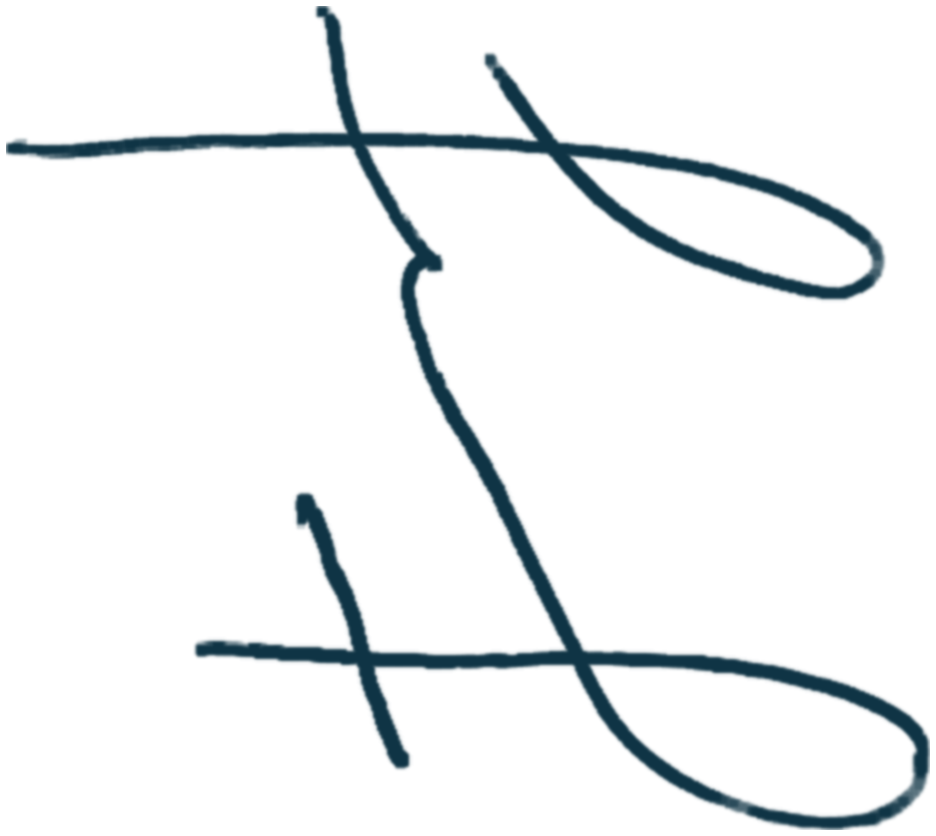
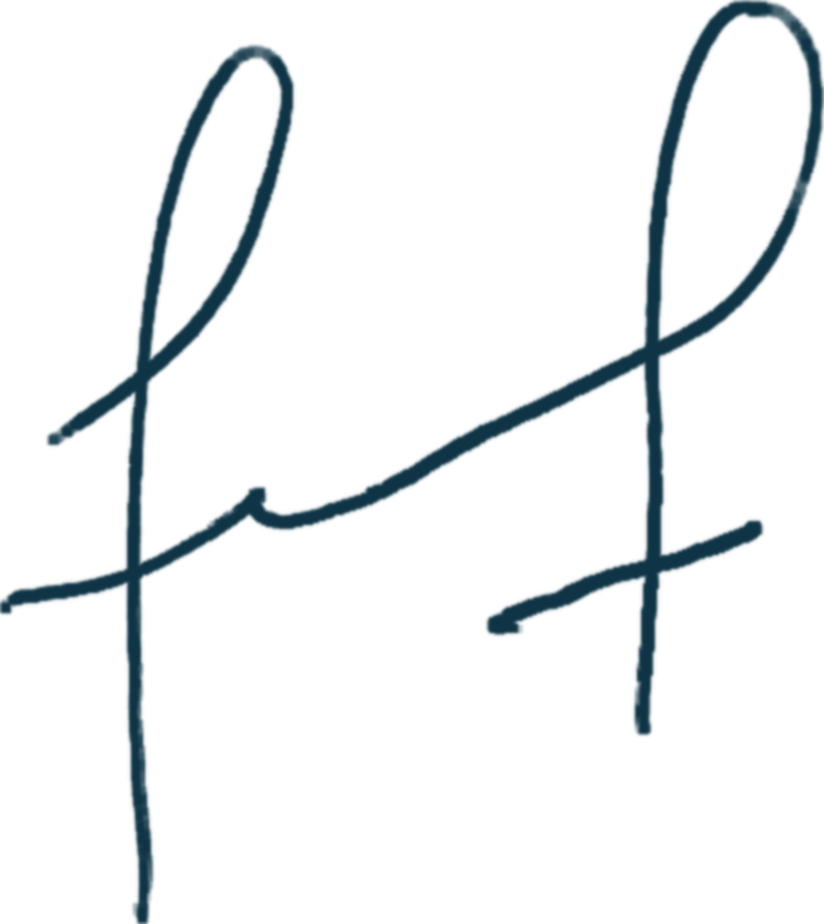
Certificado: firma rotada a horizontal y un poco más grande
Claude-Session: https://claude.ai/code/session_01QRwbcRECBZS3KKWa3fYwGE

Changed region(s): [[0.0, 0.0, 1.0, 1.0]]

diff --git a/site/js/compartir.js b/site/js/compartir.js
@@ -125,7 +125,7 @@
     if (assets.firma && d.withSignature !== false) {
       // La firma conserva sus proporciones y apoya sobre la línea (la cruza apenas, como una firma real)
       // Conserva sus proporciones, centrada sobre la línea y apoyada en ella (la cruza apenas, como una firma real)
-      var f = assets.firma, k = Math.min(300 / f.width, 150 / f.height), fw = f.width * k, fh = f.height * k;
+      var f = assets.firma, k = Math.min(300 / f.width, 180 / f.height), fw = f.width * k, fh = f.height * k;
       ctx.drawImage(f, X + (311 - fw) / 2, 684 - fh, fw, fh);
     }
     ctx.fillStyle = PETROL;
